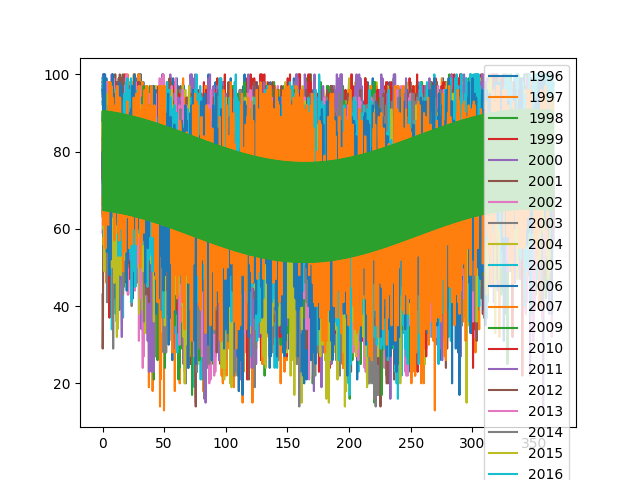
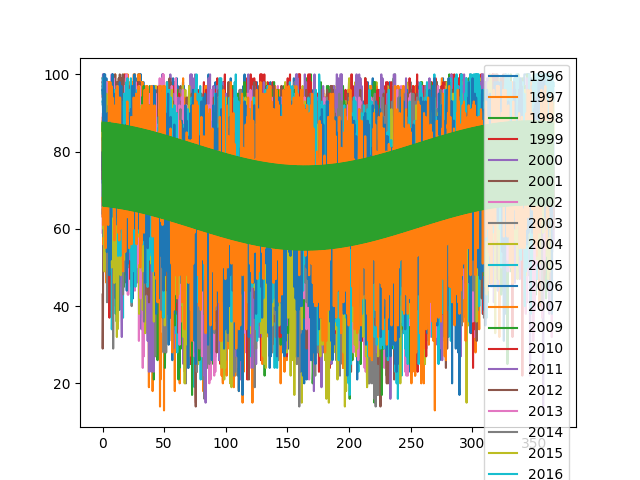
dernieres modifications pour executer descente_cos sur le ROG

diff --git a/analyse_station_unique/descente_cosinus/descente_6cosinus.py b/analyse_station_unique/descente_cosinus/descente_6cosinus.py
@@ -3,7 +3,7 @@ from matplotlib import pyplot as plt
 import numpy as np
 
 delta = 10**(-3)
-alpha = [1, 1, 1, 0.1, 0.1]
+alpha = [1, 1, 0.1, 1, 0.1, 1, 0.1, 1, 0.1, 1, 0.1, 1, 0.1]
 
 with open('../json/temperature.json') as jsonfile :
 	temperature = json.load(jsonfile)
@@ -20,7 +20,8 @@ dates.sort()
 
 
 def fct_test(X, x) :
-	return X[0]*np.cos(2*np.pi*x + X[3]) + X[1]*np.cos(2*np.pi*x/365 + X[4]) + X[2]
+	return X[0] + X[1]*np.cos (2*np.pi*x + X[2]) + X[3]*np.cos(2*np.pi*x/365 + X[4]) + X[5]*np.cos (4*np.pi*x + X[6]) + X[7]*np.cos(4*np.pi*x/365 + X[8]) + X[9]*np.cos (6*np.pi*x + X[10]) + X[11]*np.cos(6*np.pi*x/365 + X[12])
+	#X[0]*np.cos(2*np.pi*x + X[3]) + X[1]*np.cos(2*np.pi*x/365 + X[4]) + X[2] + X[5]*np.cos(4*np.pi*x + X[6])
 
 def ecart_temperature(temperature_test) :
 	ecarts_temperature = 0
@@ -33,10 +34,10 @@ def ecart_temperature(temperature_test) :
 	return (ecarts_temperature/compt)**(1/2)
 
 
-X = np.array([0.0,0.0,285.0,0.0,0.0])
-# A,B,C,phi1,phi2
-# Acos(w1t + phi1) + Bcos(w2t+phi2) + C
-#w1 jour w2 annee
+X = np.array([280 ,0.0 ,0.0,0.0,0.0,0.0, 0.0, 0.0, 0.0, 0.0, 0.0, 0.0, 0.0])
+# C A phi1 B phi2 D phi3 E phi4
+# Acos(w1t + phi1) + Bcos(w2t+phi2) + C + Dcos (w3t+phi3)
+#w1 jour w2 annee W3 demi jour
 
 drapeau = False
 ecart_precedant = 0
@@ -47,7 +48,7 @@ while drapeau == False :
 	val_actuel_ecart = ecart_temperature([dates,val_actuel])
 	#if i == 0 :
 	#	plt.plot(dates, val_actuel, label='init')
-	dX = np.array([0.0,0.0,0.0,0.0,0.0])
+	dX = np.array([0.0,0.0,0.0,0.0,0.0,0.0,0.0,0.0,0.0,0.0,0.0,0.0,0.0])
 	for j in range(len(X)) :
 		X_modif = X.copy()
 		X_modif[j] = X_modif[j] + delta
@@ -57,18 +58,21 @@ while drapeau == False :
 		val_modif_ecart = ecart_temperature([dates,val_modif])
 		df = (val_modif_ecart - val_actuel_ecart)/delta
 		dX[j] = - df * alpha[j]
-	X = X + dX
-	X[4] = X[4]%(2*np.pi)
-	X[3] = X[3]%(2*np.pi)
 	if abs (val_actuel_ecart - ecart_precedant) < 0.0001 :
 		drapeau = True
 	ecart_precedant = val_actuel_ecart
+	X = X + dX
+	X[2] = X[2]%(2*np.pi)
+	X[4] = X[4]%(2*np.pi)
+	X[6] = X[6]%(2*np.pi)
+	X[8] = X[8]%(2*np.pi)
+	X[10] = X[10]%(2*np.pi)
+	X[12] = X[12]%(2*np.pi)
 	#print(X)
 	#if i%10 == 0 :
 	#	print("{} sur 100".format(i))
 	#	print(val_modif_ecart)
 	#	print(" ")
-print ("T")
 print ("ecart")
 print (val_actuel_ecart)
 print ("dX")
@@ -85,8 +89,8 @@ for annee in temperature[0].keys() :
 
 plt.plot(dates, val_actuel, label='final')
 plt.legend()
-plt.savefig("T2cos.png")
-print ("X = [A,B,C,p1,p2]")
+plt.savefig("T6cos.png")
+print ("X = [C, A, phi1, B, phi2, D, phi3, E, phi4], F, phi5, G, phi6")
 print(X)
 
 
@@ -101,10 +105,10 @@ def ecart_humidite(humidite_test) :
 	return (ecarts_humidite/compt)**(1/2)
 
 
-X = np.array([0.0,0.0,75,0.0,0.0])
-# A,B,C,phi1,phi2
-# Acos(w1t + phi1) + Bcos(w2t+phi2) + C
-#w1 jour w2 annee
+X = np.array([70.0,0.0,0.0,0.0,0.0,0.0,0.0,0.0,0.0,0.0,0.0,0.0,0.0])
+# C A phi1 B phi2 D phi3 E phi4
+# Acos(w1t + phi1) + Bcos(w2t+phi2) + C + Dcos (w3t+phi3)
+#w1 jour w2 annee W3 demi jour
 
 ecart_precedant = 0
 drapeau = False
@@ -115,7 +119,7 @@ while drapeau == False :
 	val_actuel_ecart = ecart_humidite([dates,val_actuel])
 	#if i == 0 :
 	#	plt.plot(dates, val_actuel, label='init')
-	dX = np.array([0.0,0.0,0.0,0.0,0.0])
+	dX = np.array([0.0,0.0,0.0,0.0,0.0,0.0,0.0,0.0,0.0,0.0,0.0,0.0,0.0])
 	for j in range(len(X)) :
 		X_modif = X.copy()
 		X_modif[j] = X_modif[j] + delta
@@ -125,12 +129,17 @@ while drapeau == False :
 		val_modif_ecart = ecart_humidite([dates,val_modif])
 		df = (val_modif_ecart - val_actuel_ecart)/delta
 		dX[j] = - df * alpha[j]
-	X = X + dX
-	X[4] = X[4]%(2*np.pi)
-	X[3] = X[3]%(2*np.pi)
+
 	if abs (val_actuel_ecart - ecart_precedant) < 0.0001 :
 		drapeau = True
 	ecart_precedant = val_actuel_ecart
+	X = X + dX
+	X[2] = X[2]%(2*np.pi)
+	X[4] = X[4]%(2*np.pi)
+	X[6] = X[6]%(2*np.pi)
+	X[8] = X[8]%(2*np.pi)
+	X[10] = X[10]%(2*np.pi)
+	X[12] = X[12]%(2*np.pi)
 
 	#print(X)
 	#if i%10 == 0 :
@@ -139,11 +148,10 @@ while drapeau == False :
 	#	print(" ")
 plt.clf()
 
-print (" ")
-print(" ")
 print ("H")
+
 print("ecart")
-print (val_actuel_ecart)
+print (val_modif_ecart)
 print ("dX")
 print (dX)
 
@@ -153,12 +161,12 @@ for annee in humidite[0].keys() :
 	for date2 in humidite[0][annee] :
 		jour.append (date2)
 		humi.append (humidite[1][annee][humidite[0][annee].index(date2)])
-	plt.plot (jour, humi, label = annee) 
+	plt.plot (jour, humi) 
 
 plt.plot(dates, val_actuel, label='final')
 plt.legend()
-plt.savefig("H2cos.png")
-print ("X = [A,B,C,p1,p2]")
+plt.savefig("H6cos.png")
+print ("X = [C, A, phi1, B, phi2, D, phi3, E, phi4], F, phi5, G, phi6")
 print(X)
 
 

diff --git a/analyse_station_unique/descente_cosinus/ecartCos.py b/analyse_station_unique/descente_cosinus/ecartCos.py
@@ -1,0 +1,34 @@
+import json
+import numpy as np
+
+with open('../json/temperatureTest.json') as jsonfile :
+	temperature = json.load(jsonfile)
+
+with open('../json/humiditeTest.json') as jsonfile :
+	humidite = json.load(jsonfile)
+
+
+
+ecart = 0
+compt = 0
+for annee in temperature[0].keys() :
+	for date in temperature[0][annee] :
+		mesure = temperature[1][annee][temperature[0][annee].index(date)]
+		prevision =	-3.79759261*np.cos(2*np.pi*date + 5.61085591) + 8.43465377*np.cos(2*np.pi*date/365 + 2.81469216) + 285.13820915
+		ecart += (mesure - prevision)**2
+		compt += 1
+
+res = (ecart/compt)** (1/2)
+print("ecart de temperature : " + str(res) + "°C")
+
+ecart = 0
+compt = 0
+for annee in humidite[0].keys() :
+	for date in humidite[0][annee] :
+		mesure = humidite[1][annee][humidite[0][annee].index(date)]
+		prevision =	12.96579285 * np.cos(2*np.pi*date + 5.62656321) + 6.90328207 *np.cos(2*np.pi*date/365 + 0.31947095) + 71.15684141
+		ecart += (mesure - prevision)**2
+		compt += 1
+
+res = (ecart/compt)** (1/2)
+print("ecart d'humidite ' : " + str(res) + "%")

diff --git a/analyse_station_unique/descente_cosinus/dessinCourbeJournee.py b/analyse_station_unique/descente_cosinus/dessinCourbeJournee.py
@@ -1,0 +1,39 @@
+import numpy as np
+import json
+from matplotlib import pyplot as plt
+
+
+
+with open('../json/temperature.json') as jsonfile :
+	temperature = json.load(jsonfile)
+
+with open('../json/humidite.json') as jsonfile :
+	humidite = json.load(jsonfile)
+
+s = [0.0, 0.0, 0.0, 0.0, 0.0, 0.0, 0.0, 0.0]
+compt = [0.0, 0.0, 0.0, 0.0, 0.0, 0.0, 0.0, 0.0]
+r = [0.0, 0.0, 0.0, 0.0, 0.0, 0.0, 0.0, 0.0]
+
+for annee in temperature[0].keys() :
+	for date in temperature[0][annee] :
+		i1 = (date - int(date) )* 8
+		#print (i1)
+		i = int (i1)
+		compt[i] += 1
+		s [i] += temperature[1][annee][temperature[0][annee].index(date)]
+
+for j in range (len (s)) :
+	r[j] = (s[j] / compt[j]) - 273.15
+
+mesure = [1,2,3,4,5,6,7,8]
+
+
+courbe = []
+for m in mesure :
+	c = -3.79759261*np.cos(2*np.pi*(m-1)/8 + 5.6) + 285.13820915 - 273.15
+	courbe .append (c) 
+
+print (str (r))
+plt.plot (mesure, r)
+plt.plot (mesure, courbe)
+plt.savefig("moyenne_sur_la_journee.png")

diff --git a/analyse_station_unique/descente_cosinus/descente_4cosinus.py b/analyse_station_unique/descente_cosinus/descente_4cosinus.py
@@ -68,7 +68,7 @@ while drapeau == False :
 	#	print("{} sur 100".format(i))
 	#	print(val_modif_ecart)
 	#	print(" ")
-	if abs (val_actuel_ecart - ecart_precedant) < 0.008 :
+	if abs (val_actuel_ecart - ecart_precedant) < 0.0001 :
 		drapeau = True
 	ecart_precedant = val_actuel_ecart
 print ("T")
@@ -128,7 +128,7 @@ while drapeau == False :
 		val_modif_ecart = ecart_humidite([dates,val_modif])
 		df = (val_modif_ecart - val_actuel_ecart)/delta
 		dX[j] = - df * alpha[j]
-	if abs (val_actuel_ecart - ecart_precedant) < 0.008 :
+	if abs (val_actuel_ecart - ecart_precedant) < 0.0001 :
 		drapeau = True
 	ecart_precedant = val_actuel_ecart
 	X = X + dX
